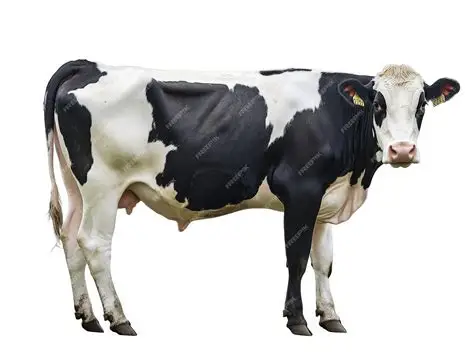
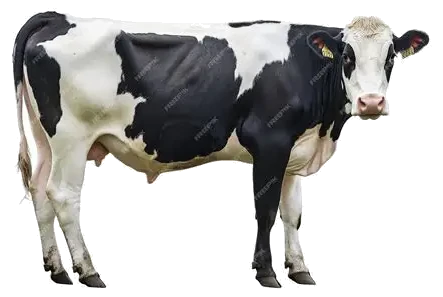
Vaca sin fondo mas grande, viaje del dato en cuadricula y panel de zona ampliado
- vaca-areas2.webp recortada a su silueta con fondo transparente; se
  recalcularon las coordenadas de los 4 hotspots para mantener el mismo
  posicionamiento anatomico
- El viaje del dato pasa de lista vertical a cuadricula de tarjetas
  (1/2/4 columnas), igualando el patron ya usado en Del dato a la decision
- El panel de zona en Que observamos ahora es mas grande (min-height,
  tipografia mayor) y anima su entrada al cambiar de zona

diff --git a/css/styles.css b/css/styles.css
@@ -478,39 +478,36 @@ button:focus-visible,
 /* ---------- 8. VIAJE DEL DATO ---------- */
 .dataflow {
   list-style: none;
-  margin: var(--space-lg) 0 0;
+  margin: var(--space-md) 0 0;
   padding: 0;
-  position: relative;
+  display: grid;
+  gap: var(--space-sm);
+  grid-template-columns: 1fr;
+  counter-reset: step;
 }
-.dataflow::before {
-  content: "";
-  position: absolute;
-  left: 1.1rem;
-  top: 0.6rem;
-  bottom: 0.6rem;
-  width: 2px;
-  background: linear-gradient(var(--color-thermal-cool), var(--color-thermal-mid), var(--color-thermal-hot));
-  opacity: 0.5;
+@media (min-width: 30rem) {
+  .dataflow { grid-template-columns: repeat(2, 1fr); }
+}
+@media (min-width: 56rem) {
+  .dataflow { grid-template-columns: repeat(4, 1fr); }
 }
 .dataflow-step {
-  position: relative;
-  padding-left: 3rem;
-  padding-bottom: var(--space-md);
+  border: 1px solid rgba(242, 241, 234, 0.16);
+  border-radius: var(--radius);
+  padding: var(--space-sm);
+  background: rgba(242, 241, 234, 0.04);
 }
-.dataflow-step:last-child { padding-bottom: 0; }
 .dataflow-step::before {
-  content: "";
-  position: absolute;
-  left: 0.55rem;
-  top: 0.3rem;
-  width: 1.1rem;
-  height: 1.1rem;
-  border-radius: 50%;
-  background: var(--color-bg-deep);
-  border: 2px solid var(--color-thermal-mid);
+  counter-increment: step;
+  content: counter(step);
+  font-family: var(--font-display);
+  font-size: var(--step-1);
+  color: var(--color-thermal-mid);
+  display: block;
+  margin-bottom: 0.3em;
 }
 .dataflow-step h4 { margin-bottom: 0.15em; color: #f2f1ea; }
-.dataflow-step p { color: #cdd3c6; margin-bottom: 0; }
+.dataflow-step p { color: #cdd3c6; margin-bottom: 0; font-size: var(--step--1); }
 
 /* ---------- 9. QUE OBSERVAMOS (mapa anatomico) ---------- */
 .anatomy {
@@ -523,9 +520,7 @@ button:focus-visible,
 }
 .anatomy-figure { position: relative; }
 
- .anatomy-figure img { width: 100%; border-radius: var(--radius); 
-  border: 1px solid var(--color-line); 
-}
+.anatomy-figure img { width: 100%; display: block; }
 
 .anatomy-hotspot {
   position: absolute;
@@ -554,11 +549,22 @@ button:focus-visible,
   border: 1px solid var(--color-line);
   border-left: 4px solid var(--color-thermal-mid);
   border-radius: var(--radius);
-  padding: var(--space-sm) var(--space-md);
+  padding: var(--space-lg) var(--space-md);
   background: #fff;
+  min-height: 12rem;
+  display: flex;
+  flex-direction: column;
+  justify-content: center;
+  animation: anatomy-panel-in 0.35s var(--ease);
 }
 .anatomy-panel[hidden] { display: none; }
-.anatomy-panel h4 { margin-bottom: 0.3em; }
+.anatomy-panel h4 { margin-bottom: 0.5em; font-size: var(--step-2); }
+.anatomy-panel p { font-size: var(--step-1); }
+
+@keyframes anatomy-panel-in {
+  from { opacity: 0; transform: translateY(8px) scale(0.98); }
+  to { opacity: 1; transform: none; }
+}
 
 /* ---------- 10. DEL DATO A LA DECISION ---------- */
 .decision-flow {

diff --git a/index.html b/index.html
@@ -161,17 +161,17 @@
       <div class="anatomy">
         <div class="anatomy-figure">
            <img src="assets/images/vaca-areas2.webp" alt="Vaca de perfil con las cuatro regiones monitoreadas señaladas" loading="lazy">
-           <button class="anatomy-hotspot" type="button" data-zone="ocular" aria-pressed="true" style="left: 80%; top: 34%;">
+           <button class="anatomy-hotspot" type="button" data-zone="ocular" aria-pressed="true" style="left: 79%; top: 25%;">
             <span aria-hidden="true">1</span>
             <span class="visually-hidden">Región ocular</span>
           </button>
-          <button class="anatomy-hotspot" type="button" data-zone="abdominal" aria-pressed="false" style="left: 52%; top: 52%;">
+          <button class="anatomy-hotspot" type="button" data-zone="abdominal" aria-pressed="false" style="left: 49%; top: 46%;">
             <span aria-hidden="true">2</span><span class="visually-hidden">Región abdominal media</span>
           </button>
-          <button class="anatomy-hotspot" type="button" data-zone="mamaria" aria-pressed="false" style="left: 32%; top: 58%;">
+          <button class="anatomy-hotspot" type="button" data-zone="mamaria" aria-pressed="false" style="left: 27%; top: 53%;">
             <span aria-hidden="true">3</span><span class="visually-hidden">Región mamaria</span>
           </button>
-          <button class="anatomy-hotspot" type="button" data-zone="vulvar" aria-pressed="false" style="left: 18%; top: 44%;">
+          <button class="anatomy-hotspot" type="button" data-zone="vulvar" aria-pressed="false" style="left: 12%; top: 37%;">
             <span aria-hidden="true">4</span><span class="visually-hidden">Región vulvar</span>
           </button>
         </div>
